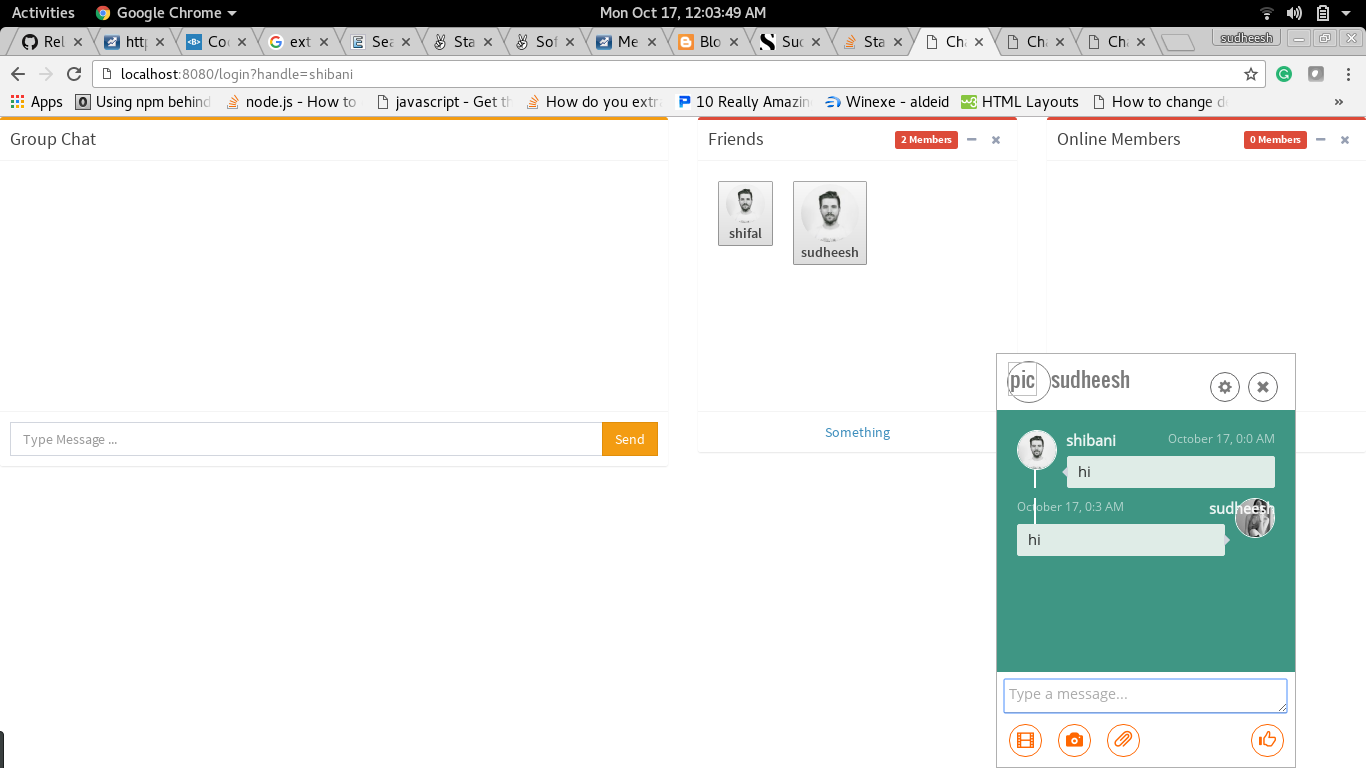
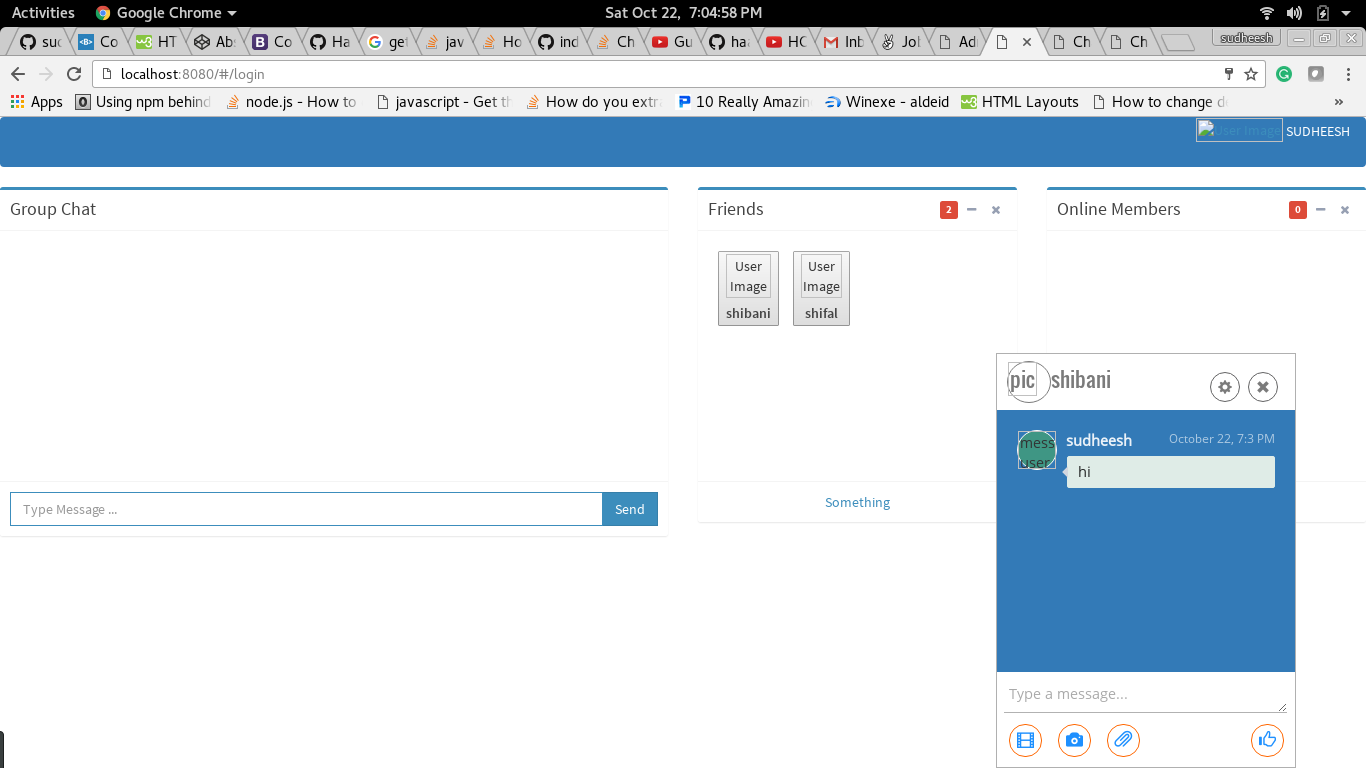
small changes for pics

diff --git a/views/angular/controller.js b/views/angular/controller.js
@@ -200,7 +200,7 @@ app.controller('myController',['$scope','socket','$http','$mdDialog','$compile',
                             <span class="direct-chat-name pull-right">'+data.split("#*@")[1]+'</span>\
                             <span class="direct-chat-timestamp pull-left">'+getDate()+'</span>\
                             </div>\
-                            <img class="direct-chat-img" src="/views/dist/img/user3-128x128.jpg" alt="message user image">\
+                            <img class="direct-chat-img" src="" alt="message user image">\
                             <div class="direct-chat-text">'
                             +data.split("#*@")[0]+
                             '</div>\
@@ -217,7 +217,7 @@ app.controller('myController',['$scope','socket','$http','$mdDialog','$compile',
                         <span class="direct-chat-name pull-left">'+$scope.user+'</span>\
                         <span class="direct-chat-timestamp pull-right">'+getDate()+'</span>\
                         </div>\
-                        <img class="direct-chat-img" src="/views/dist/img/user1-128x128.jpg"\ alt="message user image">\
+                        <img class="direct-chat-img" src=""\ alt="message user image">\
                         <div class="direct-chat-text">'
                         +message+
                         '</div>\
@@ -235,7 +235,7 @@ app.controller('myController',['$scope','socket','$http','$mdDialog','$compile',
                         <span class="direct-chat-name pull-right    ">'+data.split("#*@")[2]+'</span>\
                         <span class="direct-chat-timestamp pull-left">'+getDate()+'</span>\
                         </div>\
-                        <img class="direct-chat-img" src="/views/dist/img/user3-128x128.jpg" alt="message user image">\
+                        <img class="direct-chat-img" src="" alt="message user image">\
                         <div class="direct-chat-text">'
                         +data.split("#*@")[1]+
                         '</div>\
@@ -261,7 +261,7 @@ app.controller('myController',['$scope','socket','$http','$mdDialog','$compile',
                         <span class="direct-chat-name pull-left">'+$scope.user+'</span>\
                         <span class="direct-chat-timestamp pull-right">'+getDate()+'</span>\
                         </div>\
-                        <img class="direct-chat-img" src="/views/dist/img/user1-128x128.jpg"\ alt="message user image">\
+                        <img class="direct-chat-img" src=""\ alt="message user image">\
                         <div class="direct-chat-text">'
                         +message+
                         '</div>\

diff --git a/views/chat.html b/views/chat.html
@@ -53,7 +53,7 @@
                     <ul class="users-list clearfix" >
                         <li ng-repeat="user in users">
                             <button  data-toggle="modal" data-target="#myModal" ng-click="friend_request(user)"> 
-                                <img src="/views/dist/img/user1-128x128.jpg" alt="User Image">
+                                <img src="" alt="User Image">
                                 <a class="users-list-name">{{user}}</a></button>
                         </li>  
                     </ul>
@@ -89,7 +89,7 @@
                     <ul class="users-list clearfix" >
                         <li ng-repeat="friend in online_friends track by $index">
                             <button ng-click="chat_popup(friend)"> 
-                                <img src="/views/dist/img/user1-128x128.jpg" alt="User Image">
+                                <img src="" alt="User Image">
                                 <a class="users-list-name">{{friend}}</a></button>
                         </li>  
                     </ul>

diff --git a/views/login.html b/views/login.html
@@ -15,7 +15,7 @@
                 </div>
                 <div class="form-group input-group">
                     <span class="input-group-addon"><i class="glyphicon glyphicon-lock"></i></span>
-                    <input class="form-control" type="password" name='password' placeholder="password" ng-model="login_data.password"/>     
+                    <input class="form-control" type="password" name='password' placeholder="password" ng-model="login_data.password" my-enter="login()"/>     
                 </div>
                 <div class="checkbox">
                     <label><input type="checkbox" value="" checked>Remember me</label>

diff --git a/server.js b/server.js
@@ -2,10 +2,11 @@ var express=require('express');
 var app=express();
 var http=require('http').Server(app);
 var io = require('socket.io')(http);
+var ip = require('ip');
 app.use(express.static('./')); 
 
 require("./controller/controller.js")(app,io);
 
 http.listen(8080,function(){
-    console.log("Node Server is setup and it is listening on http://localhost:8080");
+    console.log("Node Server is setup and it is listening on http://"+ip.address()+":8080");
 })
